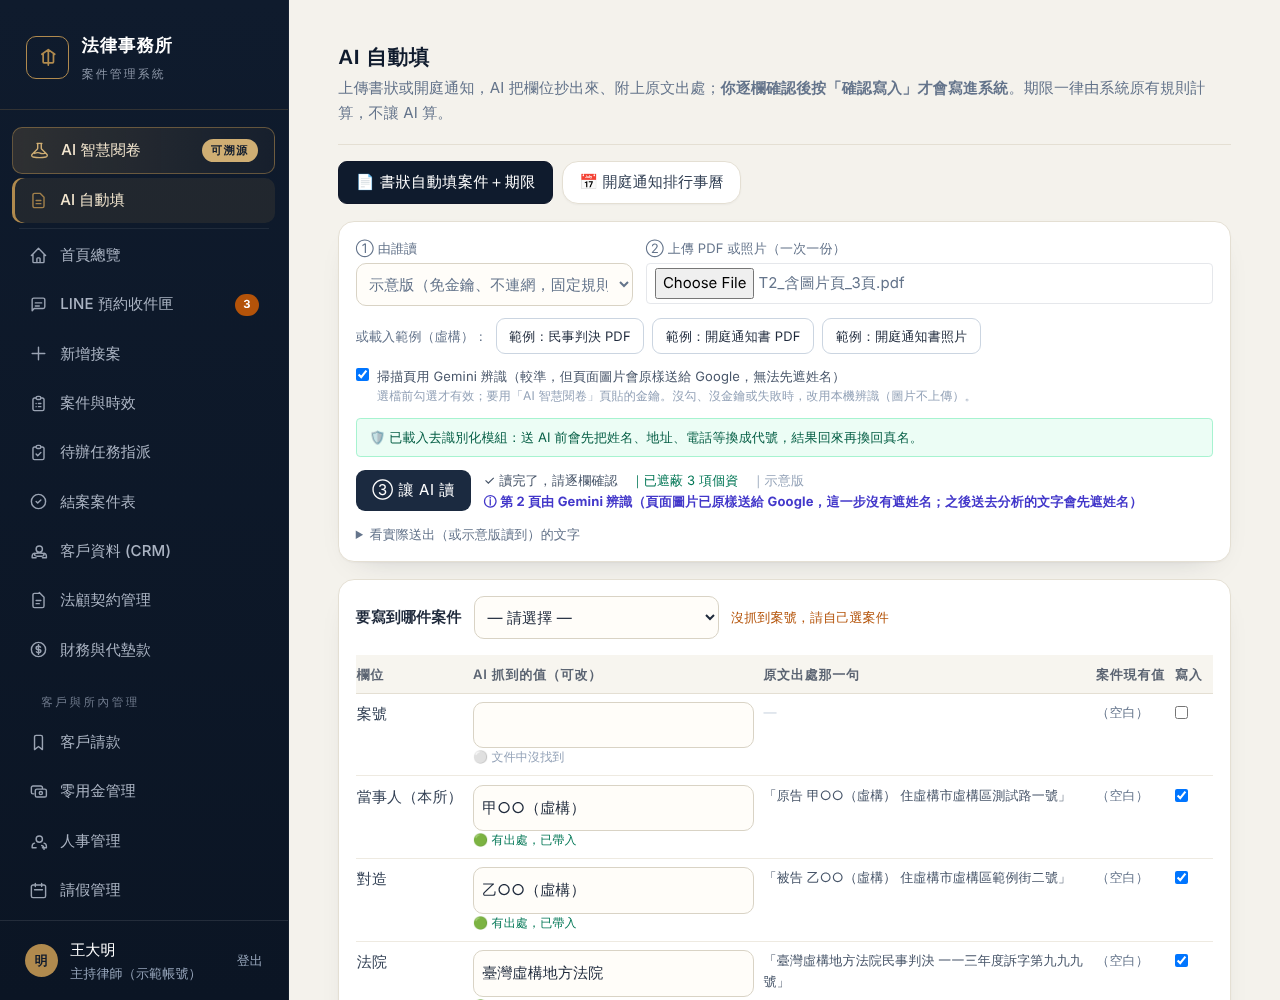
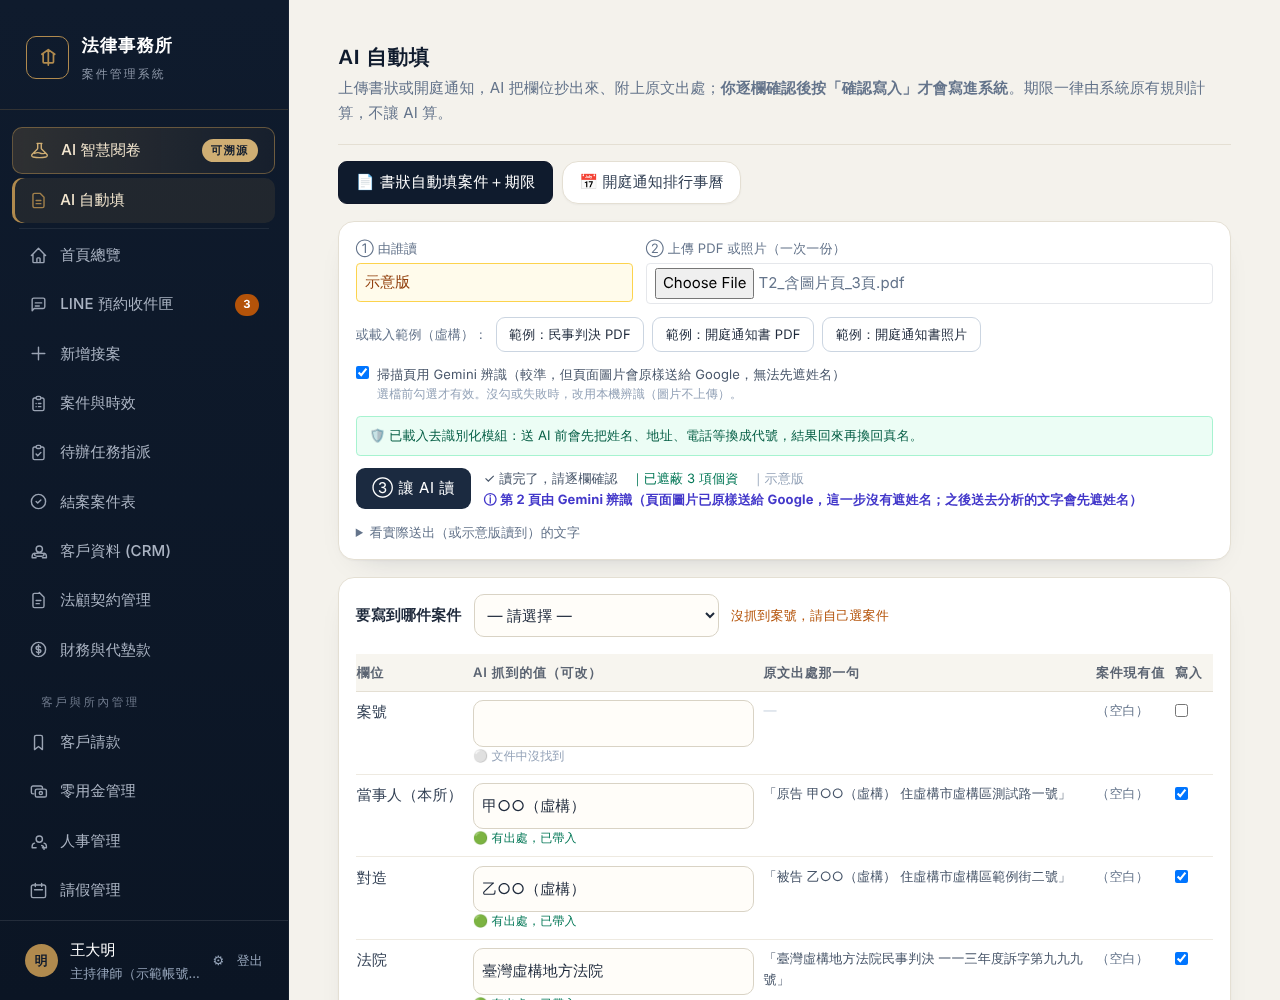
金鑰掃描腳本與結果（全部檔案＋16 分支 63 commit 歷史：沒有金鑰、沒有 AIza）；規格文件補上隱藏金鑰框與重跑結果
Claude-Session: https://claude.ai/code/session_01WqNXWWdedGteLyjvFcvaXm

diff --git a/docs/正式版規格-1105.md b/docs/正式版規格-1105.md
@@ -105,3 +105,44 @@
 - 退回點：`main` 的 `d1bc0e3`（11/5 早上的線上決賽版）。
 - 若已合併到 `main` 想退回，在 GitHub 網頁上對合併的那個 commit 按 **Revert**；或在電腦上：`git checkout main && git revert -m 1 <合併 commit> && git push`（不改寫歷史、最安全）。
 - `release/1105` 分支會保留，之後要再合併回來隨時可以。
+
+---
+
+## 七、追加：隱藏金鑰框（2026-11-05 下午，使用者決定「先做A吧」）
+
+| | 改前 | 改後 |
+|---|---|---|
+| AI 智慧閱卷 | 「③ 分析引擎」下拉選單＋「④ Gemini API 金鑰」輸入框、模型選單、「載入模型」按鈕、說明文字；沒金鑰按分析會問要不要改示意版 | 金鑰框、模型選單、載入模型按鈕全部拿掉。引擎不用選：有設定 AI 就顯示「🟢 AI 分析：Google Gemini（模型）」，沒設定就顯示「**尚未設定 AI，目前為示意版**」並直接用示意版。使用 Gemini 時保留一個同意勾選（文件文字會傳給 Google）|
+| AI 自動填 | 「由誰讀」下拉選單：示意版／Gemini（用 AI 閱卷頁貼的金鑰） | 下拉選單拿掉，改成一行狀態：有設定用 Gemini，沒設定「尚未設定 AI，目前為示意版」 |
+| 掃描頁 Gemini 辨識勾選框 | 一直顯示，說明寫「要用 AI 智慧閱卷頁貼的金鑰」 | 沒設定 AI 時不顯示；說明不再提金鑰 |
+| 金鑰存放 | 貼在畫面上，存在分頁的 sessionStorage | 只在「管理員設定」頁貼一次，存在**這台電腦這個瀏覽器的 localStorage**（`lf_admin_gemini_key`、`lf_admin_gemini_model`）；不寫進程式、不上傳、不在「一鍵備份」檔裡、不進 git；可按「清除金鑰」刪掉 |
+
+**管理員設定頁怎麼進**：網址後面加 `#admin`（例：`…/aida2026-lawfirm-demo/#admin`，登入後就會進到這頁），或點左下角名字旁的 **⚙**。這頁不在主選單。只有主持律師（王大明、陳志明）可以修改，其他身分只能看。頁面上可以貼金鑰、按「載入可用模型（測試金鑰）」確認金鑰能用並選模型、按「儲存」、按「清除金鑰」。畫面只顯示金鑰末 4 碼。
+
+程式：新檔 `modules/ai-config.js`（`window.LF_AI`：讀、存、清除金鑰）；`index.html`（AI 閱卷頁、管理員設定頁、`#admin` 進入）；`modules/autofill.js`、`modules/gemini-ocr.js`（改從 `LF_AI` 讀金鑰）。
+
+**一鍵示範**：`?demo=ding&autorun=pdf-view` 不論有沒有設定金鑰都用示意版跑（有金鑰時狀態寫「示意版（一鍵示範）」）。
+
+### 測試
+- 新增 `tests/admin-key.e2e.js`（斷網、假金鑰）17 項全部通過：主畫面沒有金鑰框；管理員設定不在主選單；沒金鑰時兩個功能都顯示「尚未設定 AI，目前為示意版」、不顯示 Gemini 辨識勾選框；`#admin` 進得去；儲存後存在 localStorage、畫面只顯示末 4 碼；有金鑰時預設 Gemini；一鍵備份檔裡沒有金鑰；有／沒有金鑰一鍵示範都跑得完；清除後回到示意版；非主持律師不能改。
+- `tests/gemini-ocr.e2e.js`、`tests/ocr-highlight.e2e.js`、`tests/gemini-ocr.test.js` 改成從管理員設定（假金鑰）讀，其餘測試照舊；全部重跑結果見下方「八」。
+
+### 金鑰掃描結果（`qa/scripts-1105/key-scan.sh`）
+- 範圍：目前所有檔案（含 vendor）＋ git 歷史 **16 個分支、63 個 commit 的每一個版本**。
+- 找的格式：Google（AIza 開頭 39 碼）、OpenAI／Anthropic（sk-、sk-ant-）、GitHub token、AWS（AKIA）、私鑰、Slack、Google OAuth（ya29.）、Make webhook，以及 `apiKey／secret／token／password = "16 碼以上"` 這類寫死的值。
+- 結果：**沒有找到任何金鑰**。目前檔案與整個 git 歷史都**沒有出現 AIza 字樣**。
+- 唯一命中是 `vendor/tesseract/core/` 兩個檔裡有 3 處長得像 AWS 金鑰格式的字串（AKIA 開頭），經確認是 Tesseract 官方程式裡 base64 編碼的二進位資料湊巧符合格式；這兩個檔與 npm 官方 `tesseract.js-core@5.1.1` 逐位元相同，不是金鑰。
+- 測試只用明顯的假金鑰（`TEST-FAKE-KEY-0000`、`FAKE-KEY-FOR-TEST`、`fake-key-for-test-only`）。
+
+## 八、追加後全部重跑（斷網模式）
+
+| 測試 | 結果 |
+|---|---|
+| 單元測試 5 支 | autofill 29／29、deidentify 76／76、gemini-ocr 17／17、pdftext 20／20、progress-report 16／16 |
+| admin-key（新） | 17 項全部通過 |
+| demo-regression、demo-content、demo-slow、demo-dates | 全部通過 |
+| gemini-ocr（假金鑰從管理員設定讀） | 全部通過 |
+| pdf-cjk（本機 OCR）／ `OFFLINE_OCR=1` | 全部通過 |
+| ocr-highlight | 全部通過 |
+| progress-report | 通過 |
+| 桌機 1440×900 逐頁點按鈕 | 0 頁面錯誤、0 console 錯誤、0 載入失敗、0 外部連線，視窗都能用 Esc 關閉 |
